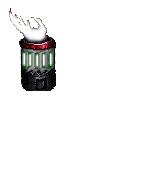
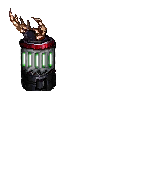
More shenanigans, Zero and Gurren Lagan are done-ish, Aegis Vanguard` donish, Aegis Vanguard is Done-Ish,INcarnation Done-ish moving on to other Shinanigans, GGGG! O.o

Changed region(s): [[0.0541, 0.0575, 0.3243, 0.2586]]

diff --git a/src/data/weapons/scripts/AEG_4g_protect.java b/src/data/weapons/scripts/AEG_4g_protect.java
@@ -12,15 +12,17 @@ public class AEG_4g_protect implements BeamEffectPlugin {
 
     private IntervalUtil fireInterval = new IntervalUtil(2f, 2f); // Interval set to 2 seconds
     private final Vector2f ZERO = new Vector2f();
-    private static final Color PARTICLE_COLOR = new Color(255, 255, 50, 255); // Changed particle color
+    private static final Color PARTICLE_COLOR = new Color(255, 255, 50, 255); // Changed particle color with lighter transparency
     private boolean runOnce = false;
     private boolean runOnce2 = false;
     private WeaponAPI weapon;
+    private float rippleTimer = 0f;
 
     @Override
     public void advance(float amount, CombatEngineAPI engine, BeamAPI beam) {
         weapon = beam.getWeapon();
         ShipAPI ship = weapon.getShip();
+
         if (!runOnce) {
             runOnce = true;
         }
@@ -31,27 +33,85 @@ public class AEG_4g_protect implements BeamEffectPlugin {
 
         if (weapon.isFiring()) {
             fireInterval.advance(amount);
+            rippleTimer += amount;
 
             if (fireInterval.intervalElapsed()) {
                 float shieldRadius = ship.getShieldRadiusEvenIfNoShield();
                 Vector2f weaponLocation = beam.getFrom(); // Use the beam's starting point
 
-                // Add single large circular distortion effect centered at the weapon's firing point using the shield sprite
+                // Add first ripple distortion effect with lighter transparency
                 SpriteAPI shieldSprite = Global.getSettings().getSprite("graphics/fx/shields64.png");
                 MagicRender.battlespace(
                         shieldSprite,
                         weaponLocation,
                         ZERO,
                         new Vector2f(shieldRadius, shieldRadius),
-                        new Vector2f(shieldRadius + 100f, shieldRadius + 100f),
+                        new Vector2f(shieldRadius + 200f, shieldRadius + 200f),
                         360f,
                         0f,
                         PARTICLE_COLOR,
                         true,
                         0.2f, // Increased brightness duration
                         0f,
-                        0.7f // Increased alpha value for brightness
+                        0.5f // Lighter alpha value for transparency
                 );
+
+                // Add second ripple distortion effect after 0.45 seconds using shields256ring.png
+                if (rippleTimer >= 0.45f) {
+                    MagicRender.battlespace(
+                            Global.getSettings().getSprite("graphics/fx/starburst_glow1.png"),
+                            weaponLocation,
+                            ZERO,
+                            new Vector2f(shieldRadius * 0.8f, shieldRadius * 0.8f),
+                            new Vector2f(shieldRadius + 80f, shieldRadius + 80f),
+                            360f,
+                            0f,
+                            new Color(255, 200, 100, 255), // Lighter yellow
+                            true,
+                            0.3f, // Duration of the ripple effect
+                            0f,
+                            0.5f // Alpha value for the ripple effect
+                    );
+                }
+
+                // Add third ripple distortion effect after 0.9 seconds using shields256ringb.png
+                if (rippleTimer >= 0.9f) {
+                    MagicRender.battlespace(
+                            Global.getSettings().getSprite("graphics/fx/wormhole_ring.png"),
+                            weaponLocation,
+                            ZERO,
+                            new Vector2f(shieldRadius * 0.6f, shieldRadius * 0.6f),
+                            new Vector2f(shieldRadius + 60f, shieldRadius + 60f),
+                            360f,
+                            0f,
+                            new Color(255, 200, 100, 255), // Light orange
+                            true,
+                            0.4f, // Duration of the ripple effect
+                            0f,
+                            0.6f // Alpha value for the ripple effect
+                    );
+                }
+
+                // Add Starhalo ripple distortion effect last with lighter transparency
+                if (rippleTimer >= 1.35f) {
+                    MagicRender.battlespace(
+                            Global.getSettings().getSprite("graphics/fx/star_halo.png"),
+                            weaponLocation,
+                            ZERO,
+                            new Vector2f(50f, 50f),
+                            new Vector2f(200f, 200f),
+                            360f,
+                            0f,
+                            new Color(255, 255, 50, 255), // Lighter transparency
+                            true,
+                            0.5f, // Duration of the ripple effect
+                            0f,
+                            0.5f // Alpha value for the ripple effect
+                    );
+
+                    // Reset the ripple timer
+                    rippleTimer = 0f;
+                }
             }
         }
     }
